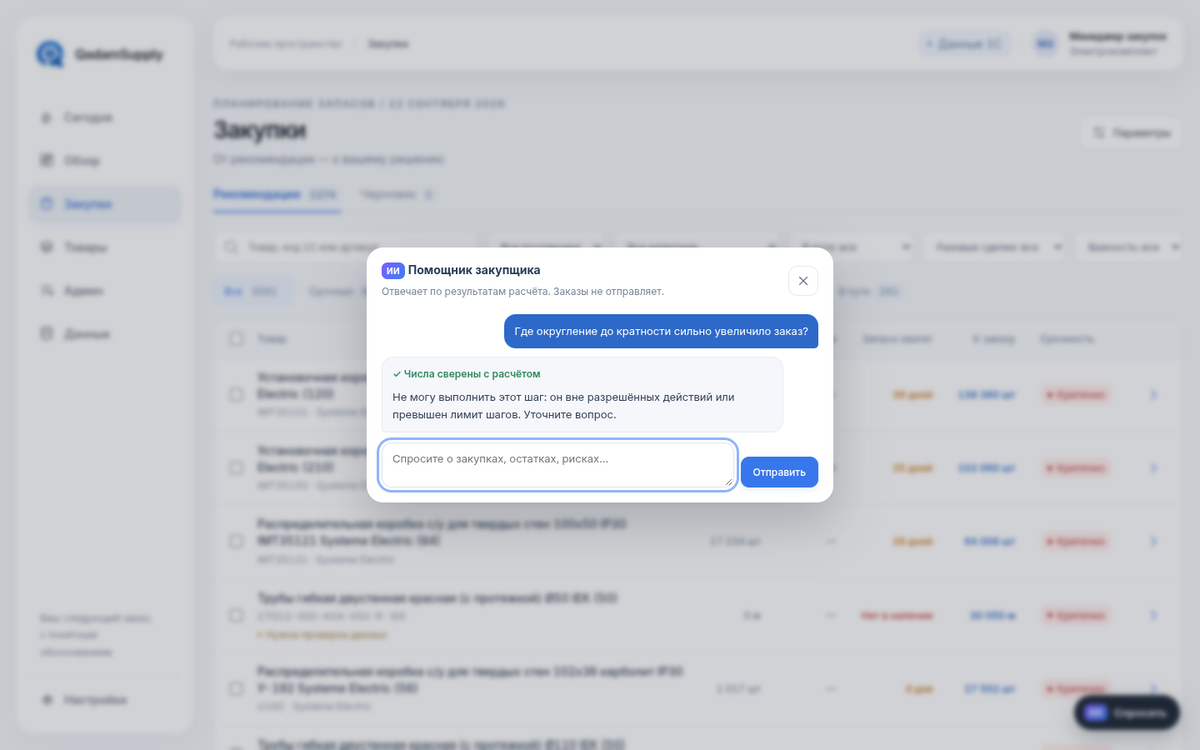
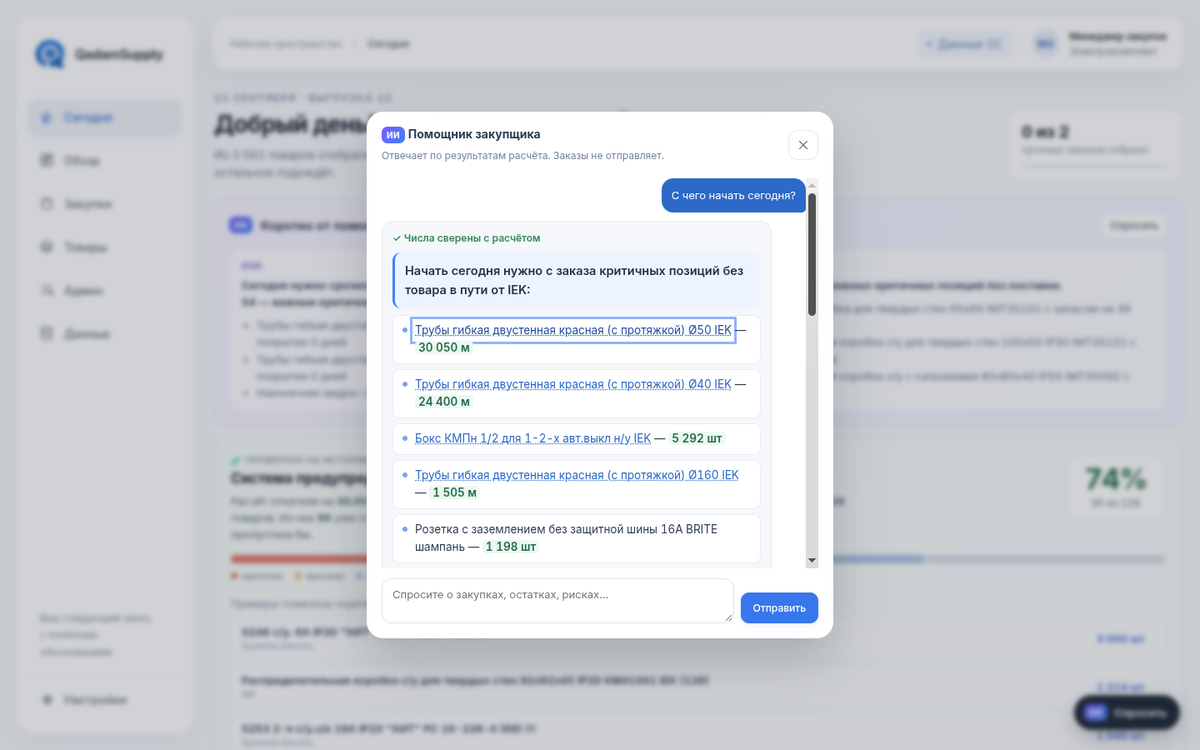
Richer assistant answers: sections, lists, highlighted quantities, product links

diff --git a/web/app.js b/web/app.js
@@ -297,7 +297,7 @@ function askBody(p){
  if(!demo.aiChat)return `<div class="notice"><div>${icon('info')}</div><div><strong>Помощник выключен</strong>Не задан ключ API языковой модели. Расчёт, рекомендации, «что если» и экспорт работают без него. Чтобы включить — добавьте OPENAI_API_KEY в .env и перезапустите сервер.</div></div>`;
  const c=chats[p.id]||{};const hist=c.history||[];
  const qs=[`Почему по этому товару рекомендовано ${fmt(p.recommended_qty)} ${p.unit}?`,'Что будет, если поставка задержится на 2 недели?',`Какие ещё критичные позиции ${p.supplier} без товара в пути?`];
- const thread=hist.length||c.loading?`<div class="ask-thread">${hist.map(t=>`<div class="ask-q">${esc(t.q)}</div>${t.error?`<div class="notice">${esc(t.error)}</div>`:`<div class="ask-answer"><div class="ask-check ${t.numbers_ok?'ok':'warn'}">${t.numbers_ok?'✓ Числа сверены с расчётом':'⚠ Есть числа не из данных: '+esc((t.unsupported||[]).join(', '))}</div><div class="ask-text">${esc(t.answer).replace(/\n/g,'<br>')}</div></div>`}`).join('')}${c.loading?`<div class="ask-q">${esc(c.pending)}</div><div class="ask-answer ask-pending">Думаю…</div>`:''}</div>`:'';
+ const thread=hist.length||c.loading?`<div class="ask-thread">${hist.map(t=>`<div class="ask-q">${esc(t.q)}</div>${t.error?`<div class="notice">${esc(t.error)}</div>`:`<div class="ask-answer"><div class="ask-check ${t.numbers_ok?'ok':'warn'}">${t.numbers_ok?'✓ Числа сверены с расчётом':'⚠ Есть числа не из данных: '+esc((t.unsupported||[]).join(', '))}</div><div class="ask-text">${renderAnswer(t.answer)}</div></div>`}`).join('')}${c.loading?`<div class="ask-q">${esc(c.pending)}</div><div class="ask-answer ask-pending">Думаю…</div>`:''}</div>`:'';
  return `<div class="ask">${thread}<div class="ask-suggest">${qs.map(q=>`<button class="chip" data-action="ask-fill" data-q="${esc(q)}">${esc(q)}</button>`).join('')}</div><textarea id="ask-input" maxlength="2000" placeholder="${hist.length?'Уточните или задайте следующий вопрос…':'Спросите о расчёте по этому товару…'}">${esc(c.draft||'')}</textarea><div class="ask-actions">${btn(c.loading?'Думаю…':'Спросить','ask-send','primary',c.loading?'disabled':'')}</div><div class="context-note">${icon('info')} Помощник отвечает только по результатам расчёта и не может отправить заказ поставщику.</div></div>`;
 }
 
@@ -331,10 +331,52 @@ function pageContext(){
   'Товары':'Экран «Товары»: весь каталог.','Данные':'Экран «Данные»: источники данных и допущения расчёта.'}[state.page]||'';
  return c?`[Контекст: ${c}]`:'';
 }
+
+// --- ответ помощника: лёгкая разметка → HTML, названия товаров → ссылки на карточку
+function productLinker(){
+ if(productLinker.cache&&productLinker.n===allProducts.length)return productLinker.cache;
+ const norm=t=>t.toLowerCase().replace(/\s+/g,' ').trim();
+ productLinker.cache={norm,list:allProducts.map(p=>[norm(p.name),p]).filter(([n])=>n.length>=10)};productLinker.n=allProducts.length;return productLinker.cache;
+}
+function linkProducts(html){
+ // название товара в пункте списка — всё до « — » (или до конца); ищем товар, чьё имя начинается с него
+ const {norm,list}=productLinker();if(!list.length)return html;
+ const m=html.match(/^(.{10,160}?)(\s[—–-]\s|:|$)/);if(!m)return html;
+ const frag=m[1].replace(/<[^>]+>/g,''), key=norm(frag.replace(/&quot;/g,'"').replace(/&amp;/g,'&'));
+ if(key.length<10)return html;
+ let best=null;
+ for(const [n,p] of list){ if(n.startsWith(key)||key.startsWith(n)){ if(!best||Math.abs(n.length-key.length)<Math.abs(best[0].length-key.length))best=[n,p]; } }
+ if(!best)return html;
+ return `<button class="ans-link" data-action="product" data-id="${esc(best[1].id)}">${m[1]}</button>`+html.slice(m[1].length);
+}
+function renderAnswer(text){
+ const lines=String(text||'').replace(/\r/g,'').split('\n');
+ const out=[];let list=null;
+ const inline=t=>{let h=esc(t);
+  h=h.replace(/\*\*(.+?)\*\*/g,'<strong>$1</strong>');
+  h=h.replace(/(\d[\d  ]*[.,]?\d*)\s?(шт|м|упак|компл|дн\.?|дней|дня|день|%|₸)(?=[\s.,;:)—–-]|$)/g,'<b class="ans-num">$1 $2</b>');
+  return linkProducts(h);};
+ const flush=()=>{if(list){out.push(`<ul class="ans-list">${list.join('')}</ul>`);list=null;}};
+ for(const raw of lines){
+  const l=raw.trim();
+  if(!l){flush();continue;}
+  const m=l.match(/^[-•*]\s+(.*)$/);
+  if(m){(list??=[]).push(`<li>${inline(m[1])}</li>`);continue;}
+  flush();
+  const h=l.match(/^\*\*(.+?)\*\*:?$/)||l.match(/^(.{2,40}):$/);
+  if(h&&!/\d/.test(h[1])){out.push(`<div class="ans-h">${esc(h[1])}</div>`);continue;}
+  const num=l.match(/^(\d+)[.)]\s+(.*)$/);
+  if(num){out.push(`<div class="ans-step"><span>${num[1]}</span><div>${inline(num[2])}</div></div>`);continue;}
+  out.push(`<p>${inline(l)}</p>`);
+ }
+ flush();
+ if(out.length&&out[0].startsWith('<p>'))out[0]=out[0].replace('<p>','<p class="ans-lead">');
+ return `<div class="ans">${out.join('')}</div>`;
+}
 function renderAssistant(){
  let d=$('#assistant-dialog');
  if(!d){d=document.createElement('dialog');d.id='assistant-dialog';d.className='assistant-dialog';document.body.append(d);}
- const body=demo.aiChat===undefined?'<div class="ai-loading"><i></i><i></i><i></i> Проверяем помощника…</div>':!demo.aiChat?aiOff():`${ai.log.length?'':`<div class="ask-suggest">${assistantSuggestions().map(q=>`<button class="chip" data-action="assistant-fill" data-q="${esc(q)}">${esc(q)}</button>`).join('')}</div>`}<div class="assistant-log">${ai.log.map(m=>m.role==='user'?`<div class="msg user">${esc(m.text)}</div>`:`<div class="msg bot">${m.error?`<span class="cover-none">${esc(m.error)}</span>`:`<div class="ask-check ${m.numbers_ok?'ok':'warn'}">${m.numbers_ok?'✓ Числа сверены с расчётом':'⚠ Есть числа не из данных: '+esc((m.unsupported||[]).join(', '))}</div>${esc(m.text).replace(/\n/g,'<br>')}`}</div>`).join('')}${ai.busy?'<div class="msg bot"><div class="ai-loading"><i></i><i></i><i></i> Думаю…</div></div>':''}</div><div class="assistant-input"><textarea id="assistant-input" maxlength="2000" placeholder="Спросите о закупках, остатках, рисках…"></textarea>${btn('Отправить','assistant-send','primary',ai.busy?'disabled':'')}</div>`;
+ const body=demo.aiChat===undefined?'<div class="ai-loading"><i></i><i></i><i></i> Проверяем помощника…</div>':!demo.aiChat?aiOff():`${ai.log.length?'':`<div class="ask-suggest">${assistantSuggestions().map(q=>`<button class="chip" data-action="assistant-fill" data-q="${esc(q)}">${esc(q)}</button>`).join('')}</div>`}<div class="assistant-log">${ai.log.map(m=>m.role==='user'?`<div class="msg user">${esc(m.text)}</div>`:`<div class="msg bot">${m.error?`<span class="cover-none">${esc(m.error)}</span>`:`<div class="ask-check ${m.numbers_ok?'ok':'warn'}">${m.numbers_ok?'✓ Числа сверены с расчётом':'⚠ Есть числа не из данных: '+esc((m.unsupported||[]).join(', '))}</div>${renderAnswer(m.text)}`}</div>`).join('')}${ai.busy?'<div class="msg bot"><div class="ai-loading"><i></i><i></i><i></i> Думаю…</div></div>':''}</div><div class="assistant-input"><textarea id="assistant-input" maxlength="2000" placeholder="Спросите о закупках, остатках, рисках…"></textarea>${btn('Отправить','assistant-send','primary',ai.busy?'disabled':'')}</div>`;
  d.innerHTML=`<div class="modal-heading"><div><span class="ai-badge">ИИ</span> <strong>Помощник закупщика</strong><div class="card-sub">Отвечает по результатам расчёта. Заказы не отправляет.</div></div><button class="icon-btn" data-action="assistant-close" aria-label="Закрыть">${icon('close')}</button></div>${body}`;
  const log=d.querySelector('.assistant-log');if(log)log.scrollTop=log.scrollHeight;
  return d;

diff --git a/web/styles.css b/web/styles.css
@@ -319,3 +319,18 @@ td.product .product-open strong{display:-webkit-box;-webkit-line-clamp:2;-webkit
 .admin-list li{font-size:13px;color:#33445b;background:#f8fafd;border:1px solid #eef2f7;border-radius:10px;padding:8px 10px}
 .admin-list li small{display:block;font-size:11px;color:#8a98ab;margin-top:2px}
 @media (max-width:760px){.bt-head{flex-direction:column}.bt-num{align-self:stretch}}
+
+/* --- ответы помощника --- */
+.ans{display:grid;gap:8px;font-size:13.5px;line-height:1.6;color:#2c3d54}
+.ans p{margin:0}
+.ans .ans-lead{font-size:14.5px;font-weight:600;color:#1d2b3e;padding:10px 12px;border-radius:10px;background:#eef4ff;border-left:3px solid #3b82f6}
+.ans .ans-h{font-size:11px;font-weight:700;letter-spacing:.06em;text-transform:uppercase;color:#6d5bd0;margin-top:6px}
+.ans .ans-list{margin:0;padding:0;list-style:none;display:grid;gap:6px}
+.ans .ans-list li{position:relative;padding:7px 10px 7px 26px;border-radius:9px;background:#fff;border:1px solid #e8eef6}
+.ans .ans-list li:before{content:'';position:absolute;left:11px;top:14px;width:6px;height:6px;border-radius:50%;background:#7aa5ee}
+.ans .ans-step{display:grid;grid-template-columns:22px 1fr;gap:8px;align-items:start}
+.ans .ans-step span{width:22px;height:22px;border-radius:7px;background:#eef4ff;color:#2869c9;font-size:11px;font-weight:700;display:grid;place-items:center}
+.ans .ans-num{font-weight:650;color:#1f6b47;background:#edf8f1;border-radius:5px;padding:0 4px}
+.ans .ans-link{border:0;background:none;padding:0;font:inherit;color:#2869c9;text-decoration:underline dotted;cursor:pointer;text-align:left}
+.ans .ans-link:hover{color:#1c4fa0}
+.msg.bot .ans{color:#2c3d54}

diff --git a/agent/prompts.py b/agent/prompts.py
@@ -34,8 +34,17 @@ SYSTEM_PROMPT = """# РОЛЬ
 {preferences}
 
 # ФОРМАТ
-По-русски, коротко. Первая строка — вывод. Затем факторы списком. Затем, что можно изменить.
-Количества в штуках/метрах, даты ДД.ММ.ГГГГ.
+По-русски, коротко, для менеджера — не для аналитика. Структура ответа:
+1. Первая строка — главный вывод одной фразой, без заголовка.
+2. Затем 1–3 раздела с заголовком в строке вида «**Заголовок**» (например «**Что заказать**»,
+   «**Почему**», «**Риски**», «**Что можно изменить**») и пунктами «- …». Заголовки подбирай под вопрос,
+   не повторяй один шаблон. Пустые общие фразы («сезонность учтена», «кратность учтена») не пиши —
+   только конкретика с числами и названиями.
+3. Названия товаров пиши полностью, как в данных, чтобы на них можно было нажать. Количества с
+   единицами: «30 050 м», «1 440 шт». Даты ДД.ММ.ГГГГ.
+4. Параметры называй по-русски: «срок поставки», «период заказа», «уровень сервиса», «товар в пути».
+   Никаких lead_time_days, service_z, MOQ, SKU — только человеческие слова.
+5. В конце одна фраза-предложение следующего шага (что показать или пересчитать).
 
 # ПРИМЕРЫ
 Менеджер: Почему по 010500008_ так много?
